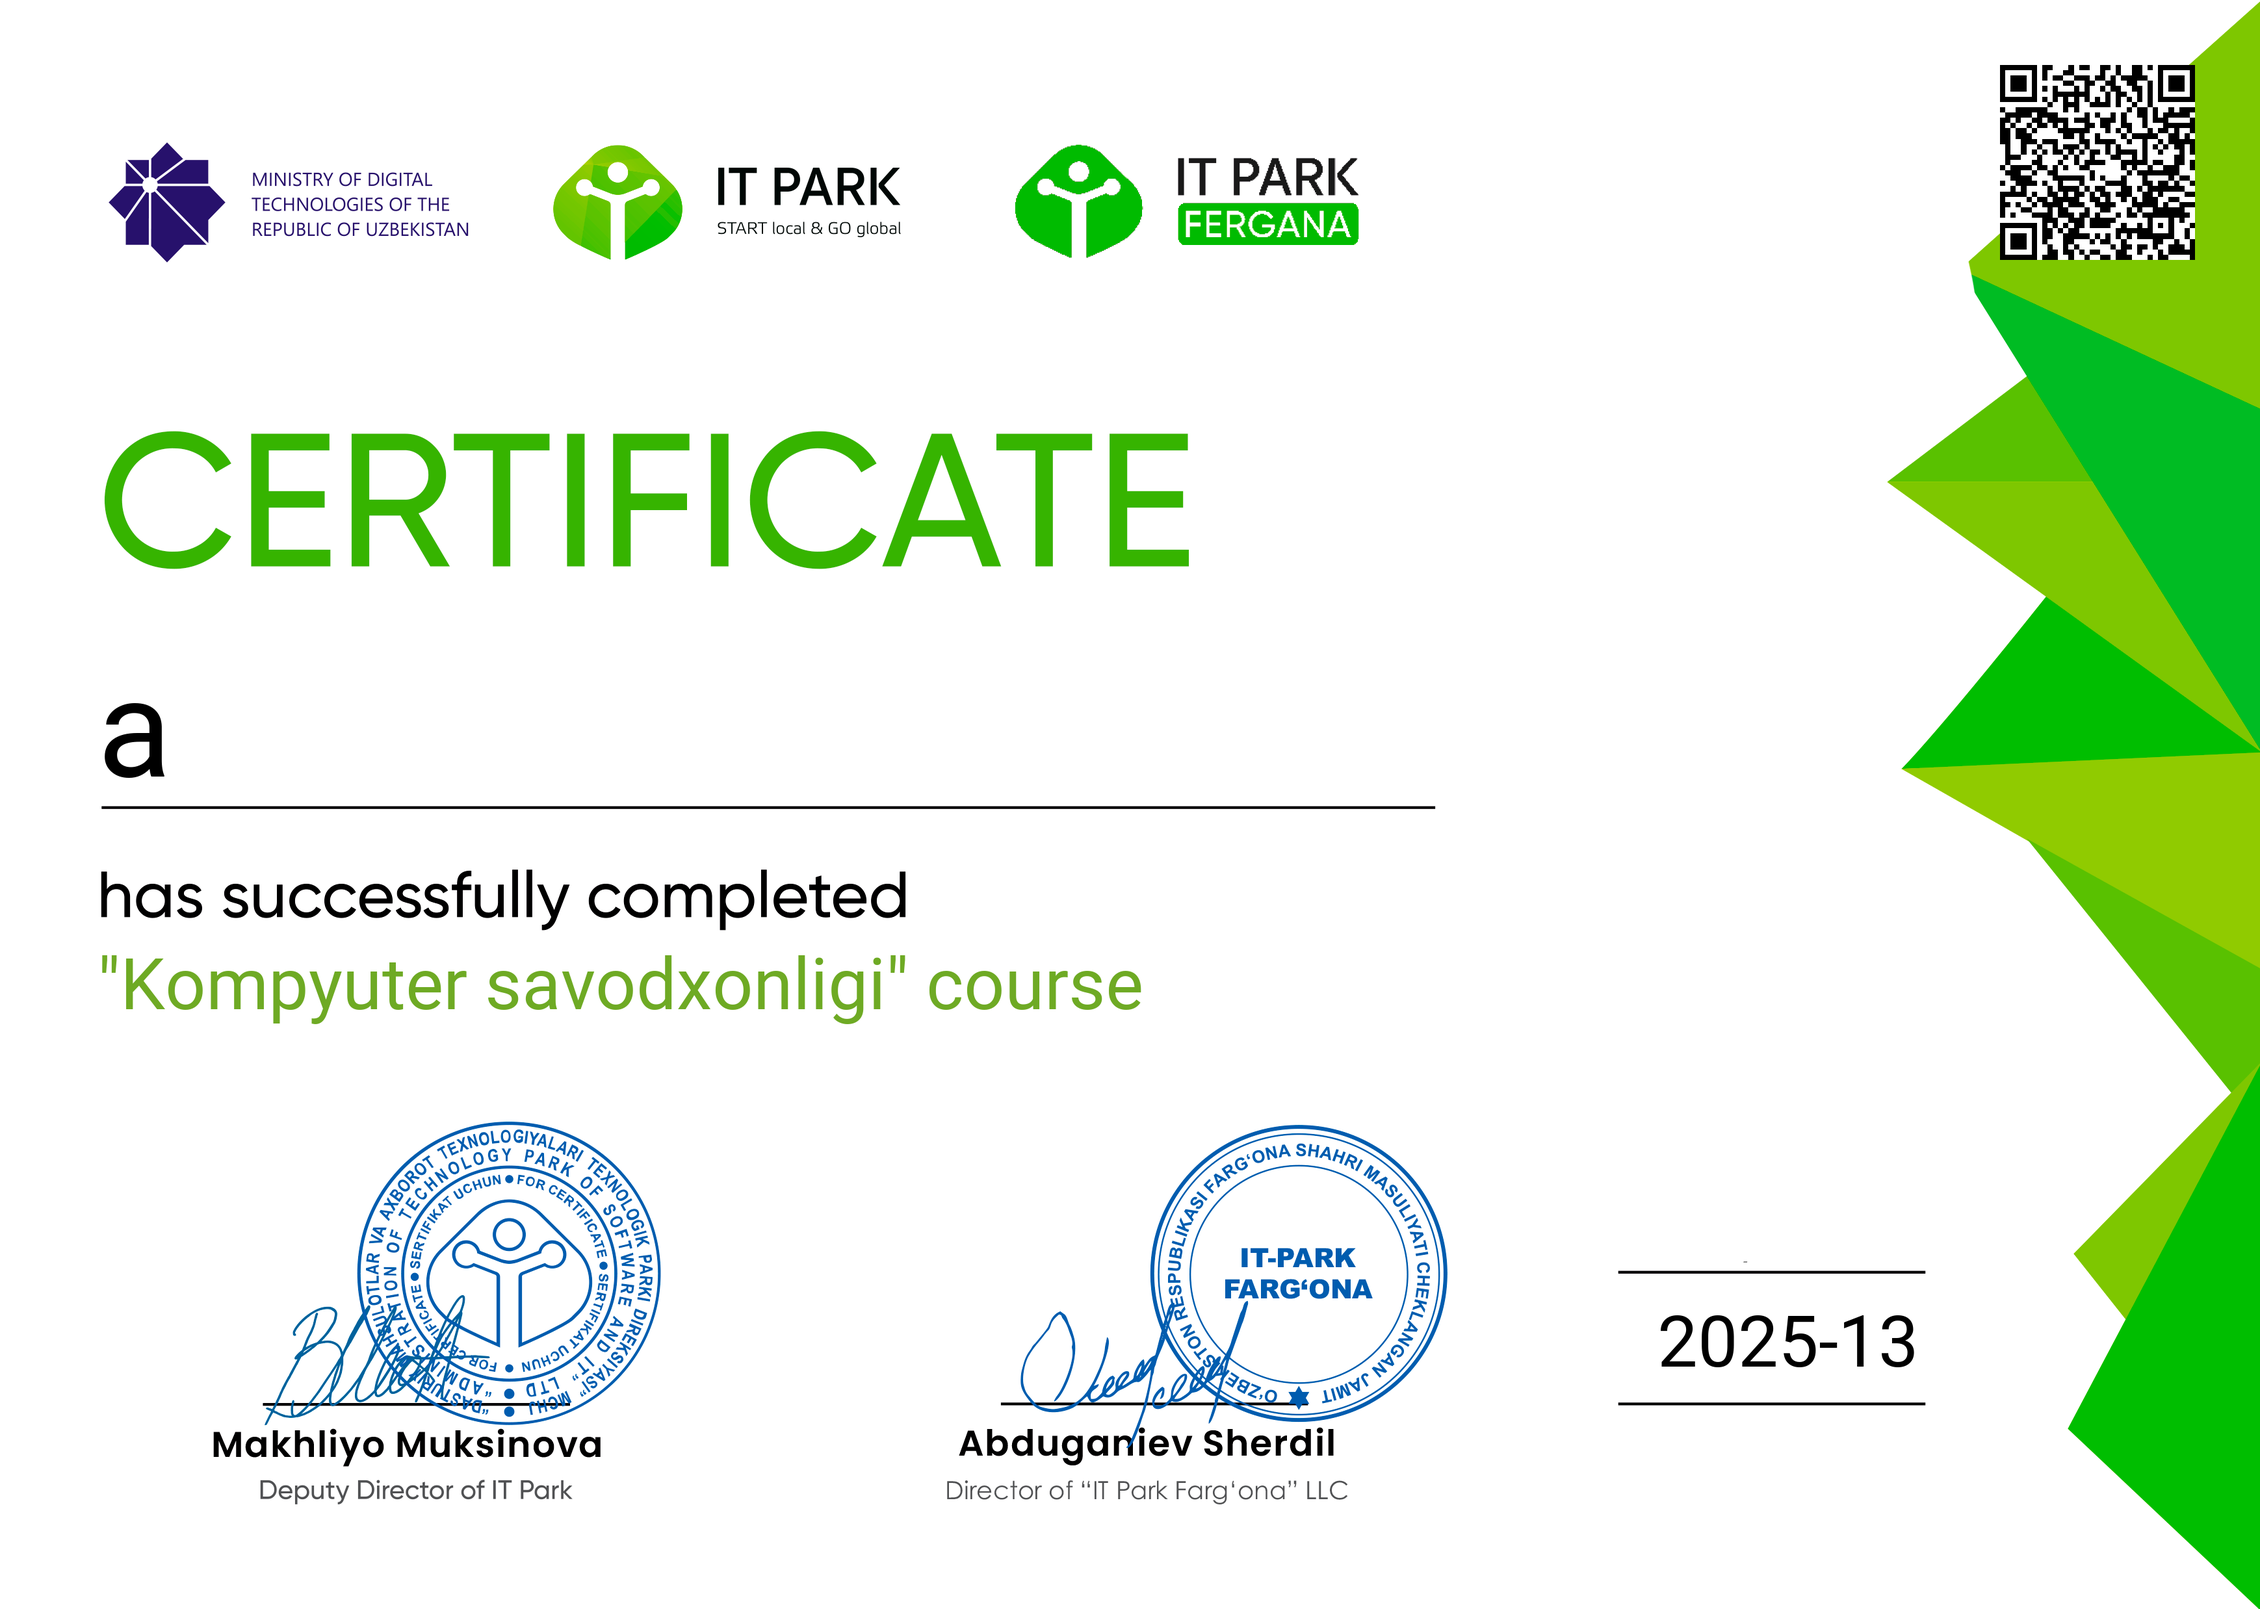
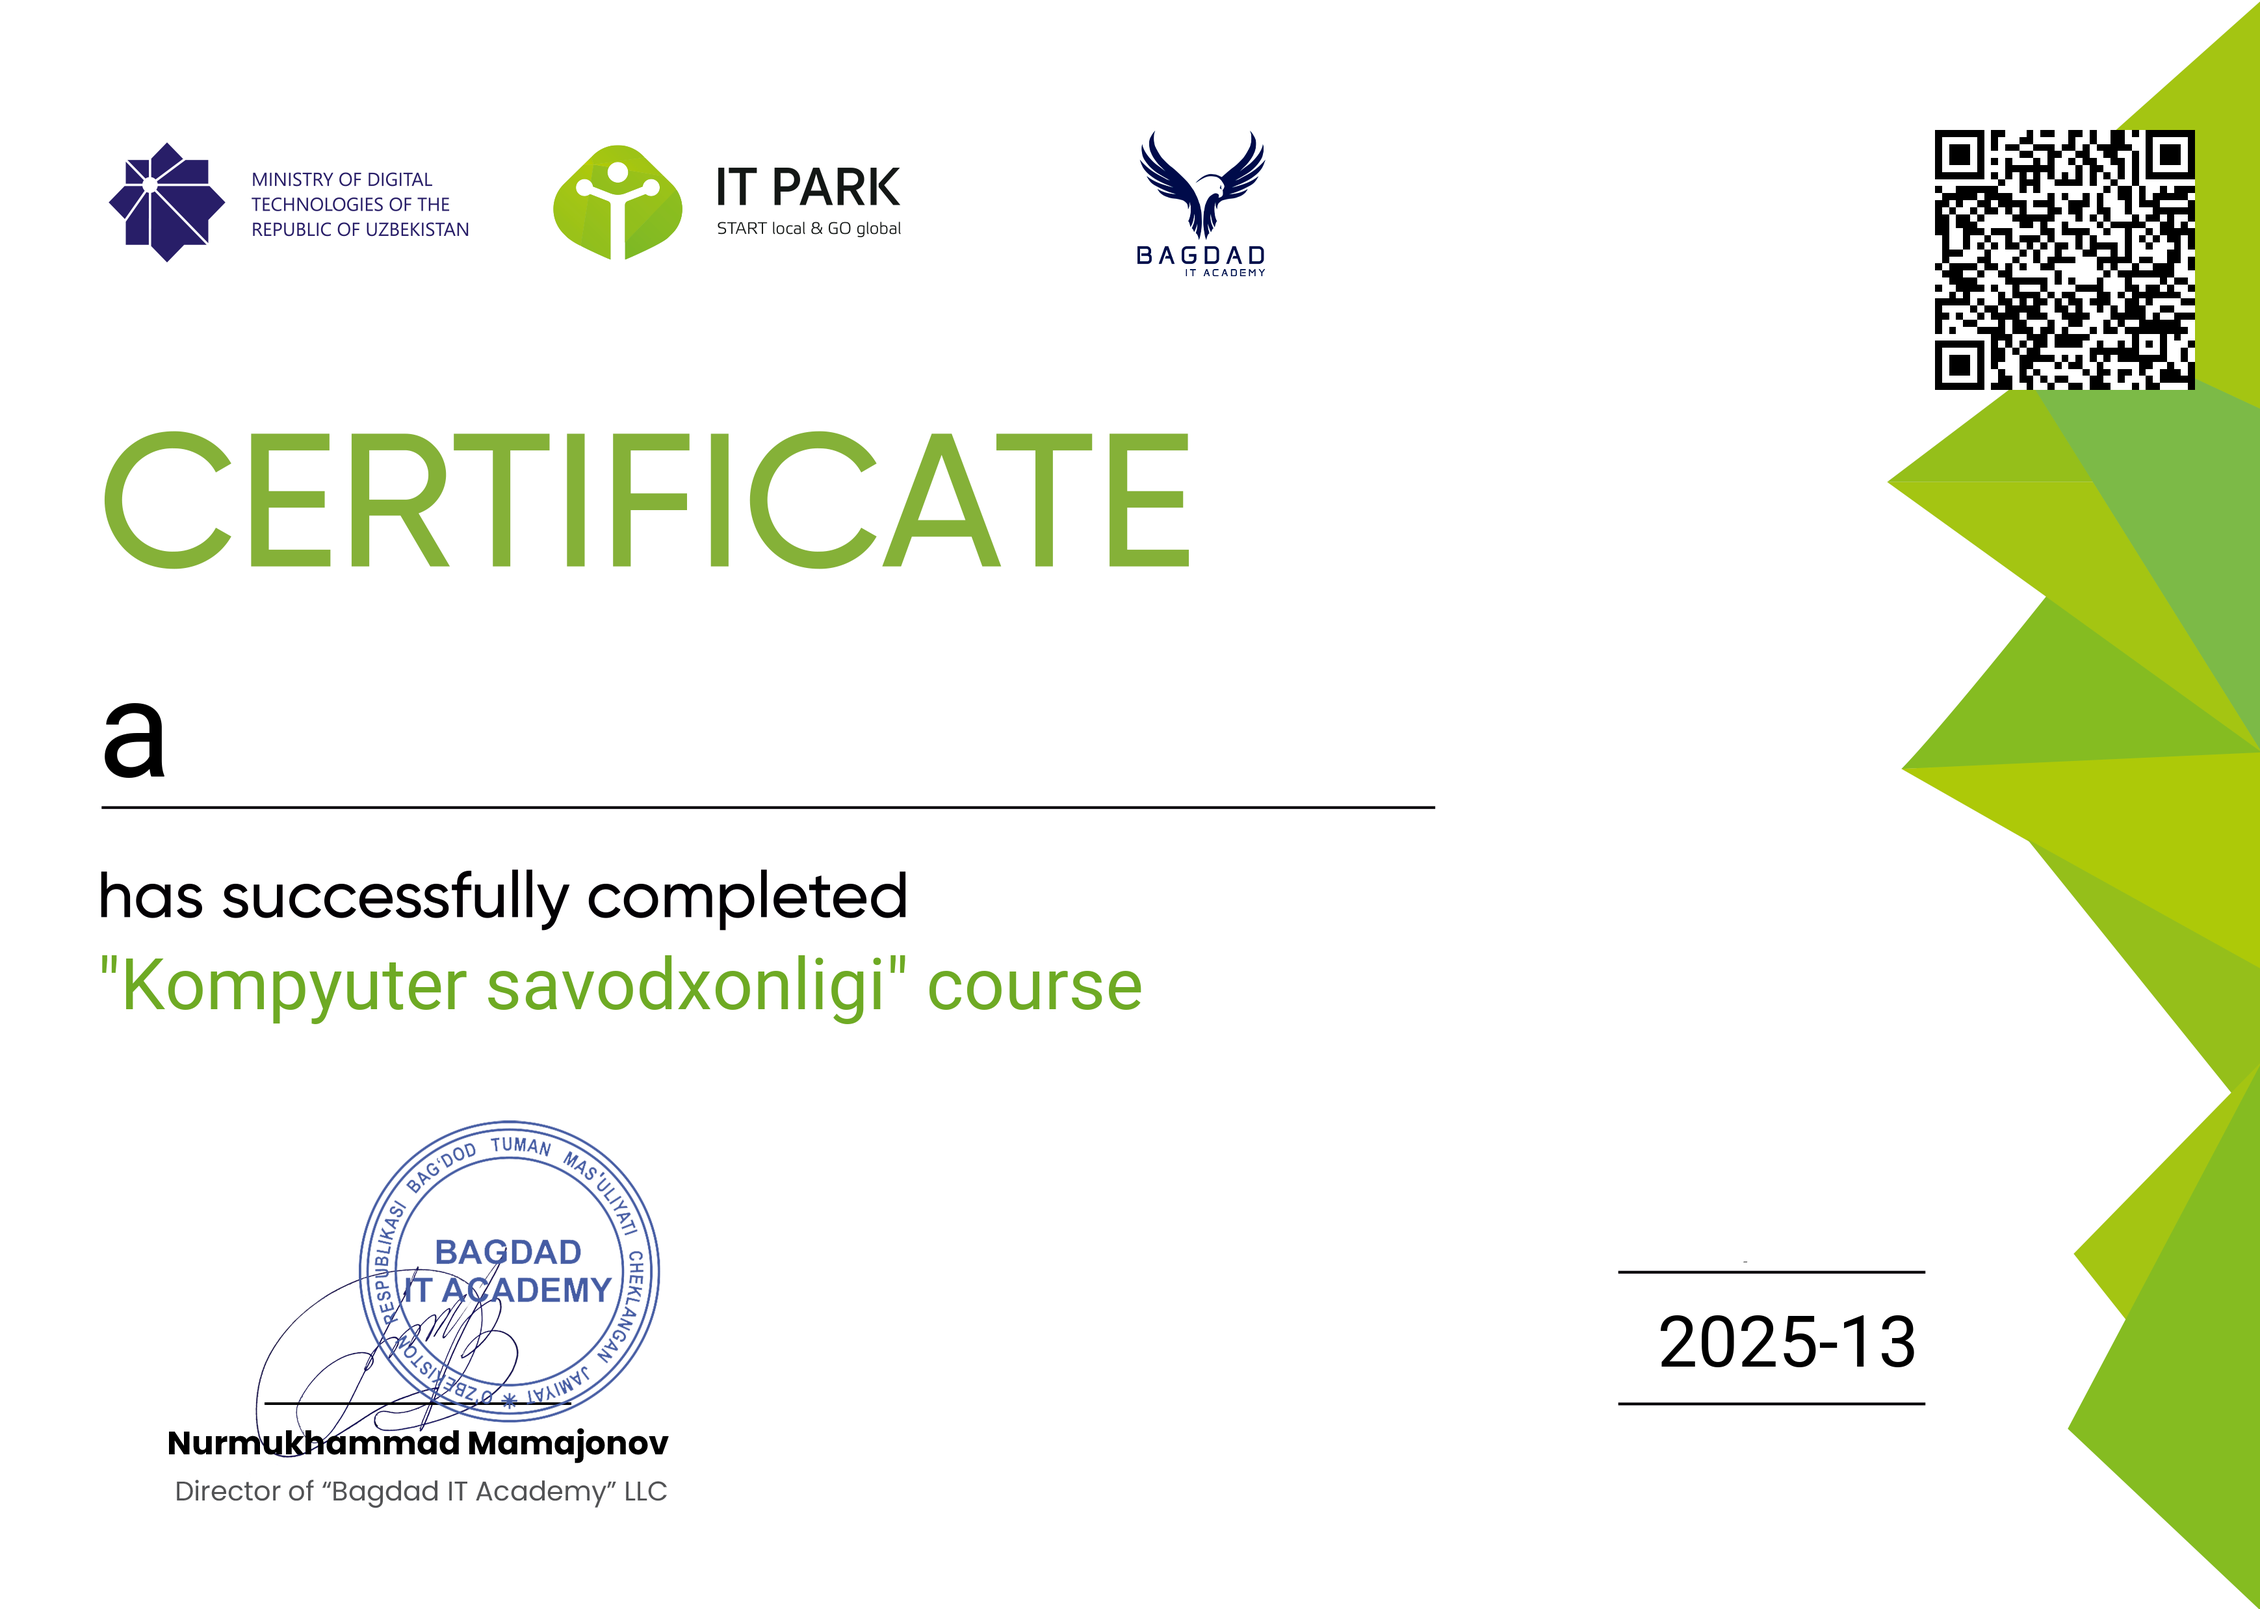
sertifikate

diff --git a/students/views.py b/students/views.py
@@ -158,7 +158,7 @@ def generate_certificate(request, pk):
 
 
         # 6⃣ QR kodni sertifikatga joylashtirish
-        qr_position = (img.size[0] - qr_size - 100, 100)
+        qr_position = (img.size[0] - qr_size - 700, 200)
         img.paste(qr_img, qr_position)
 
         # Сохраняем изображение в объект BytesIO
